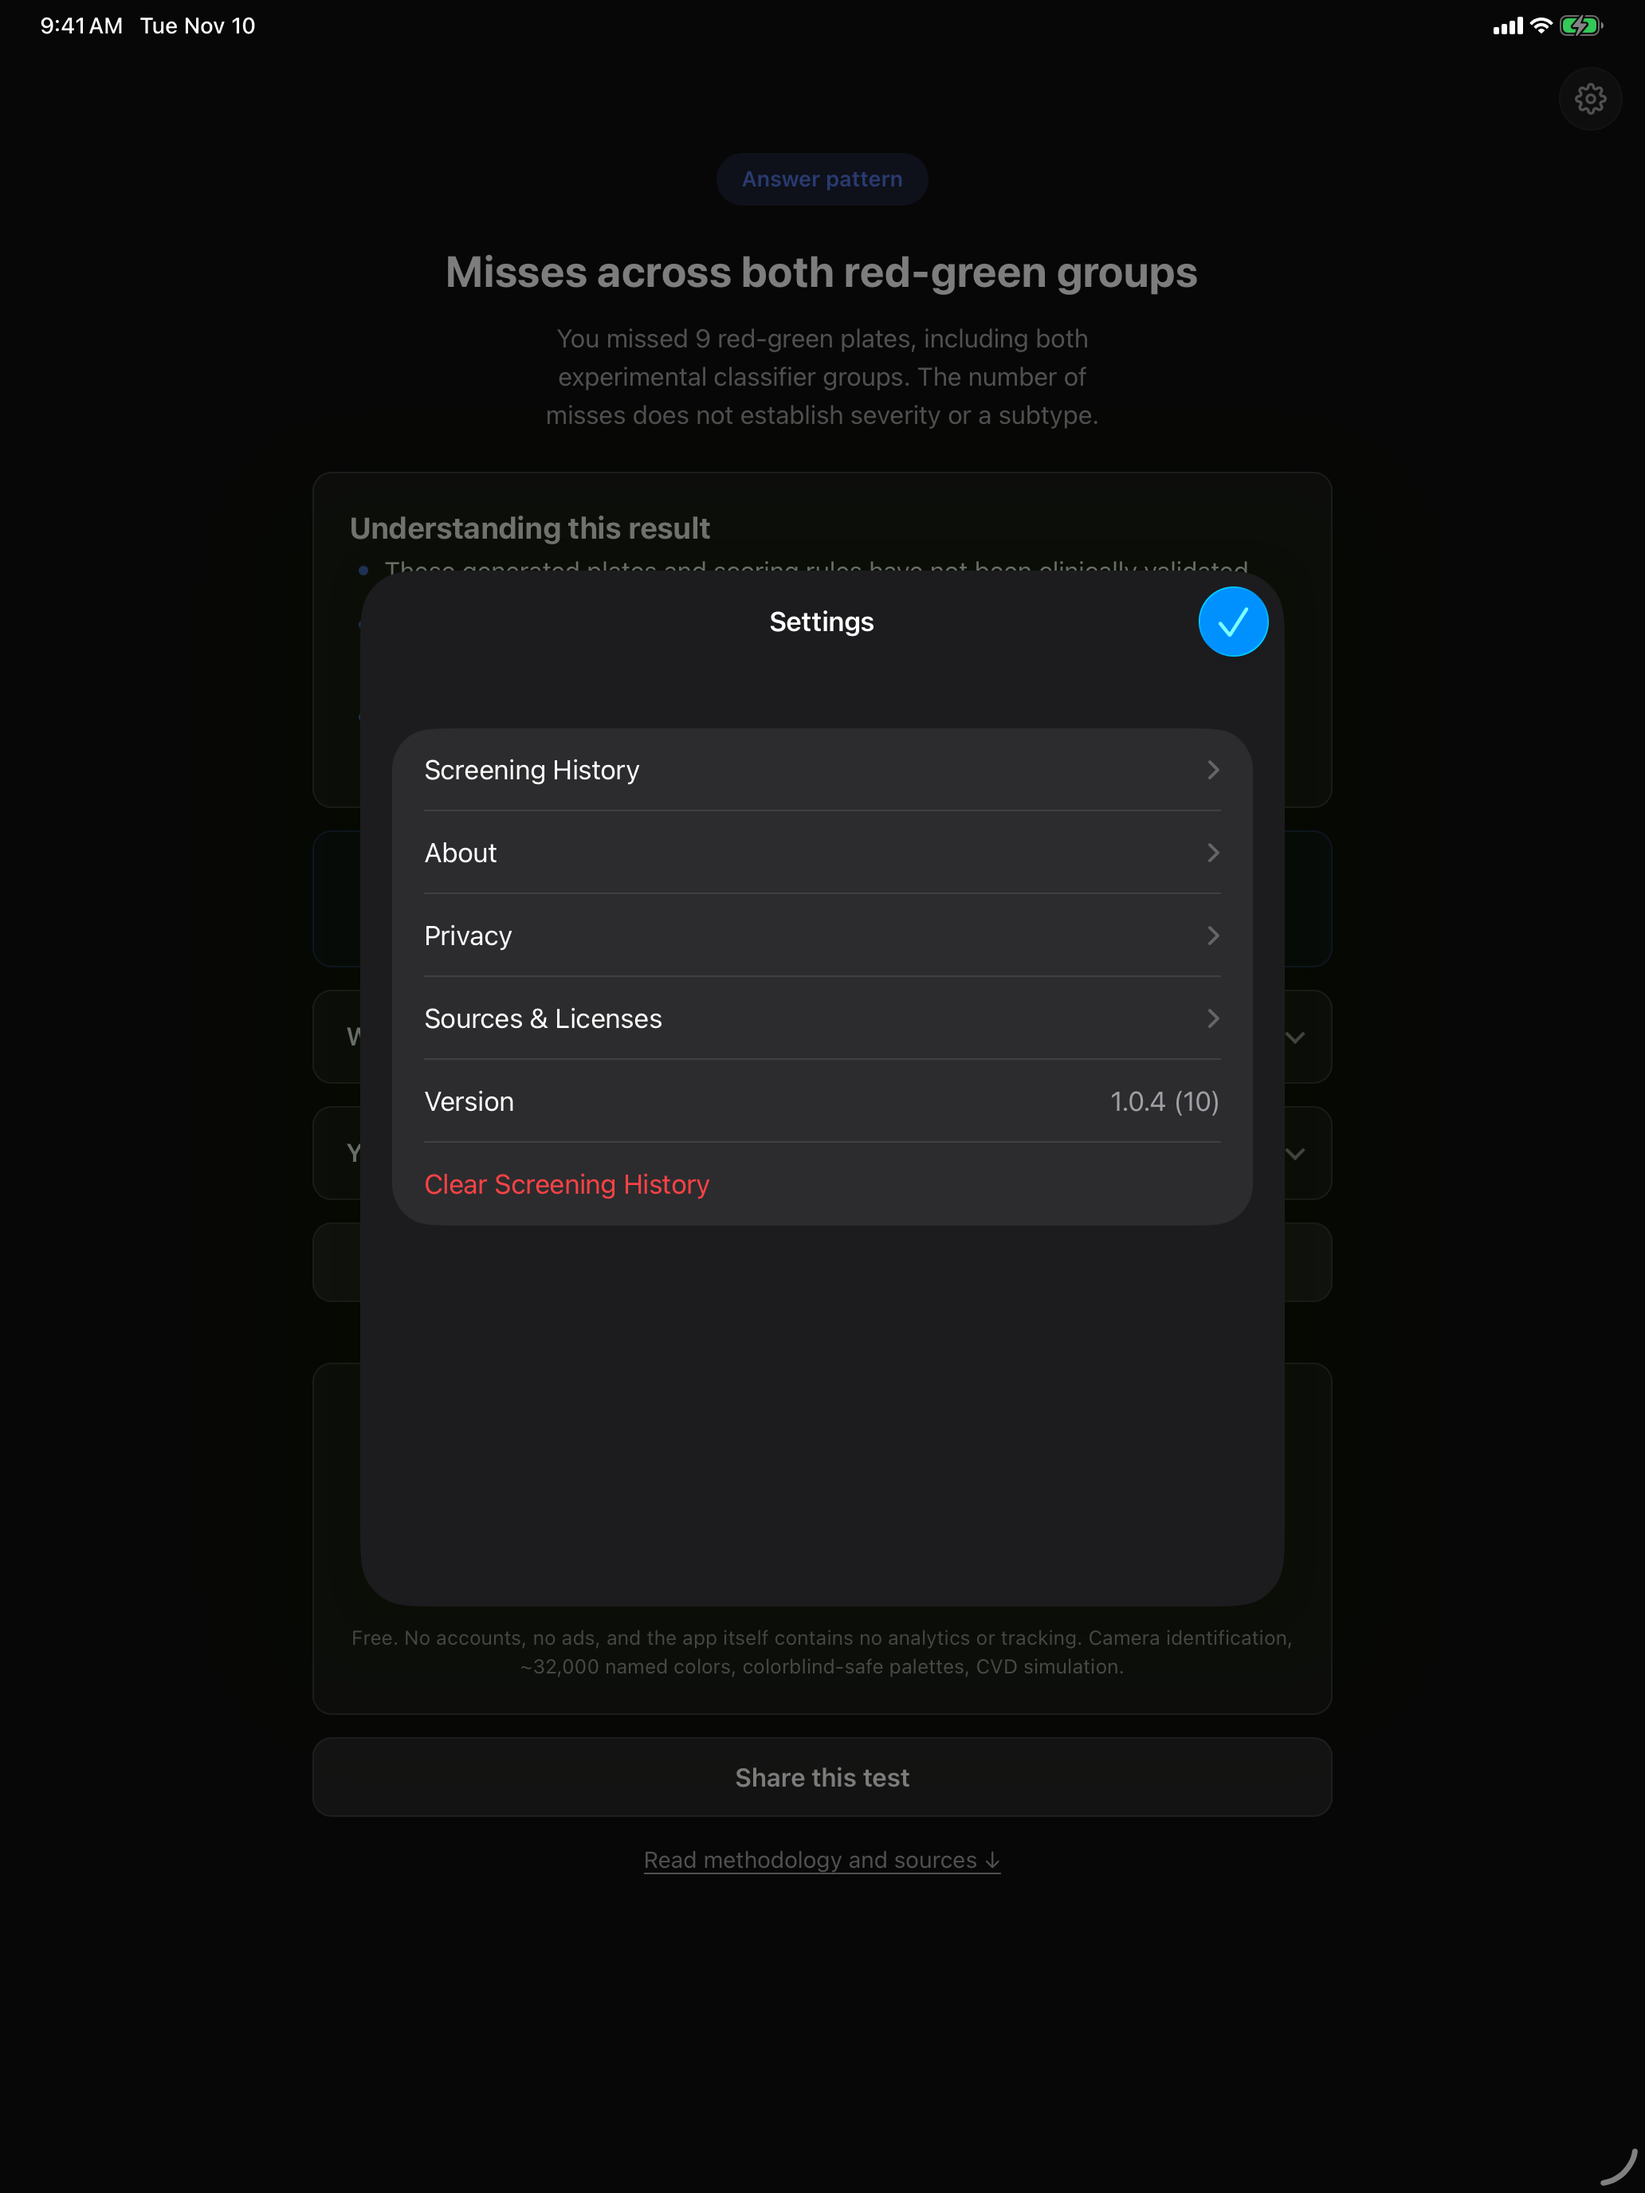
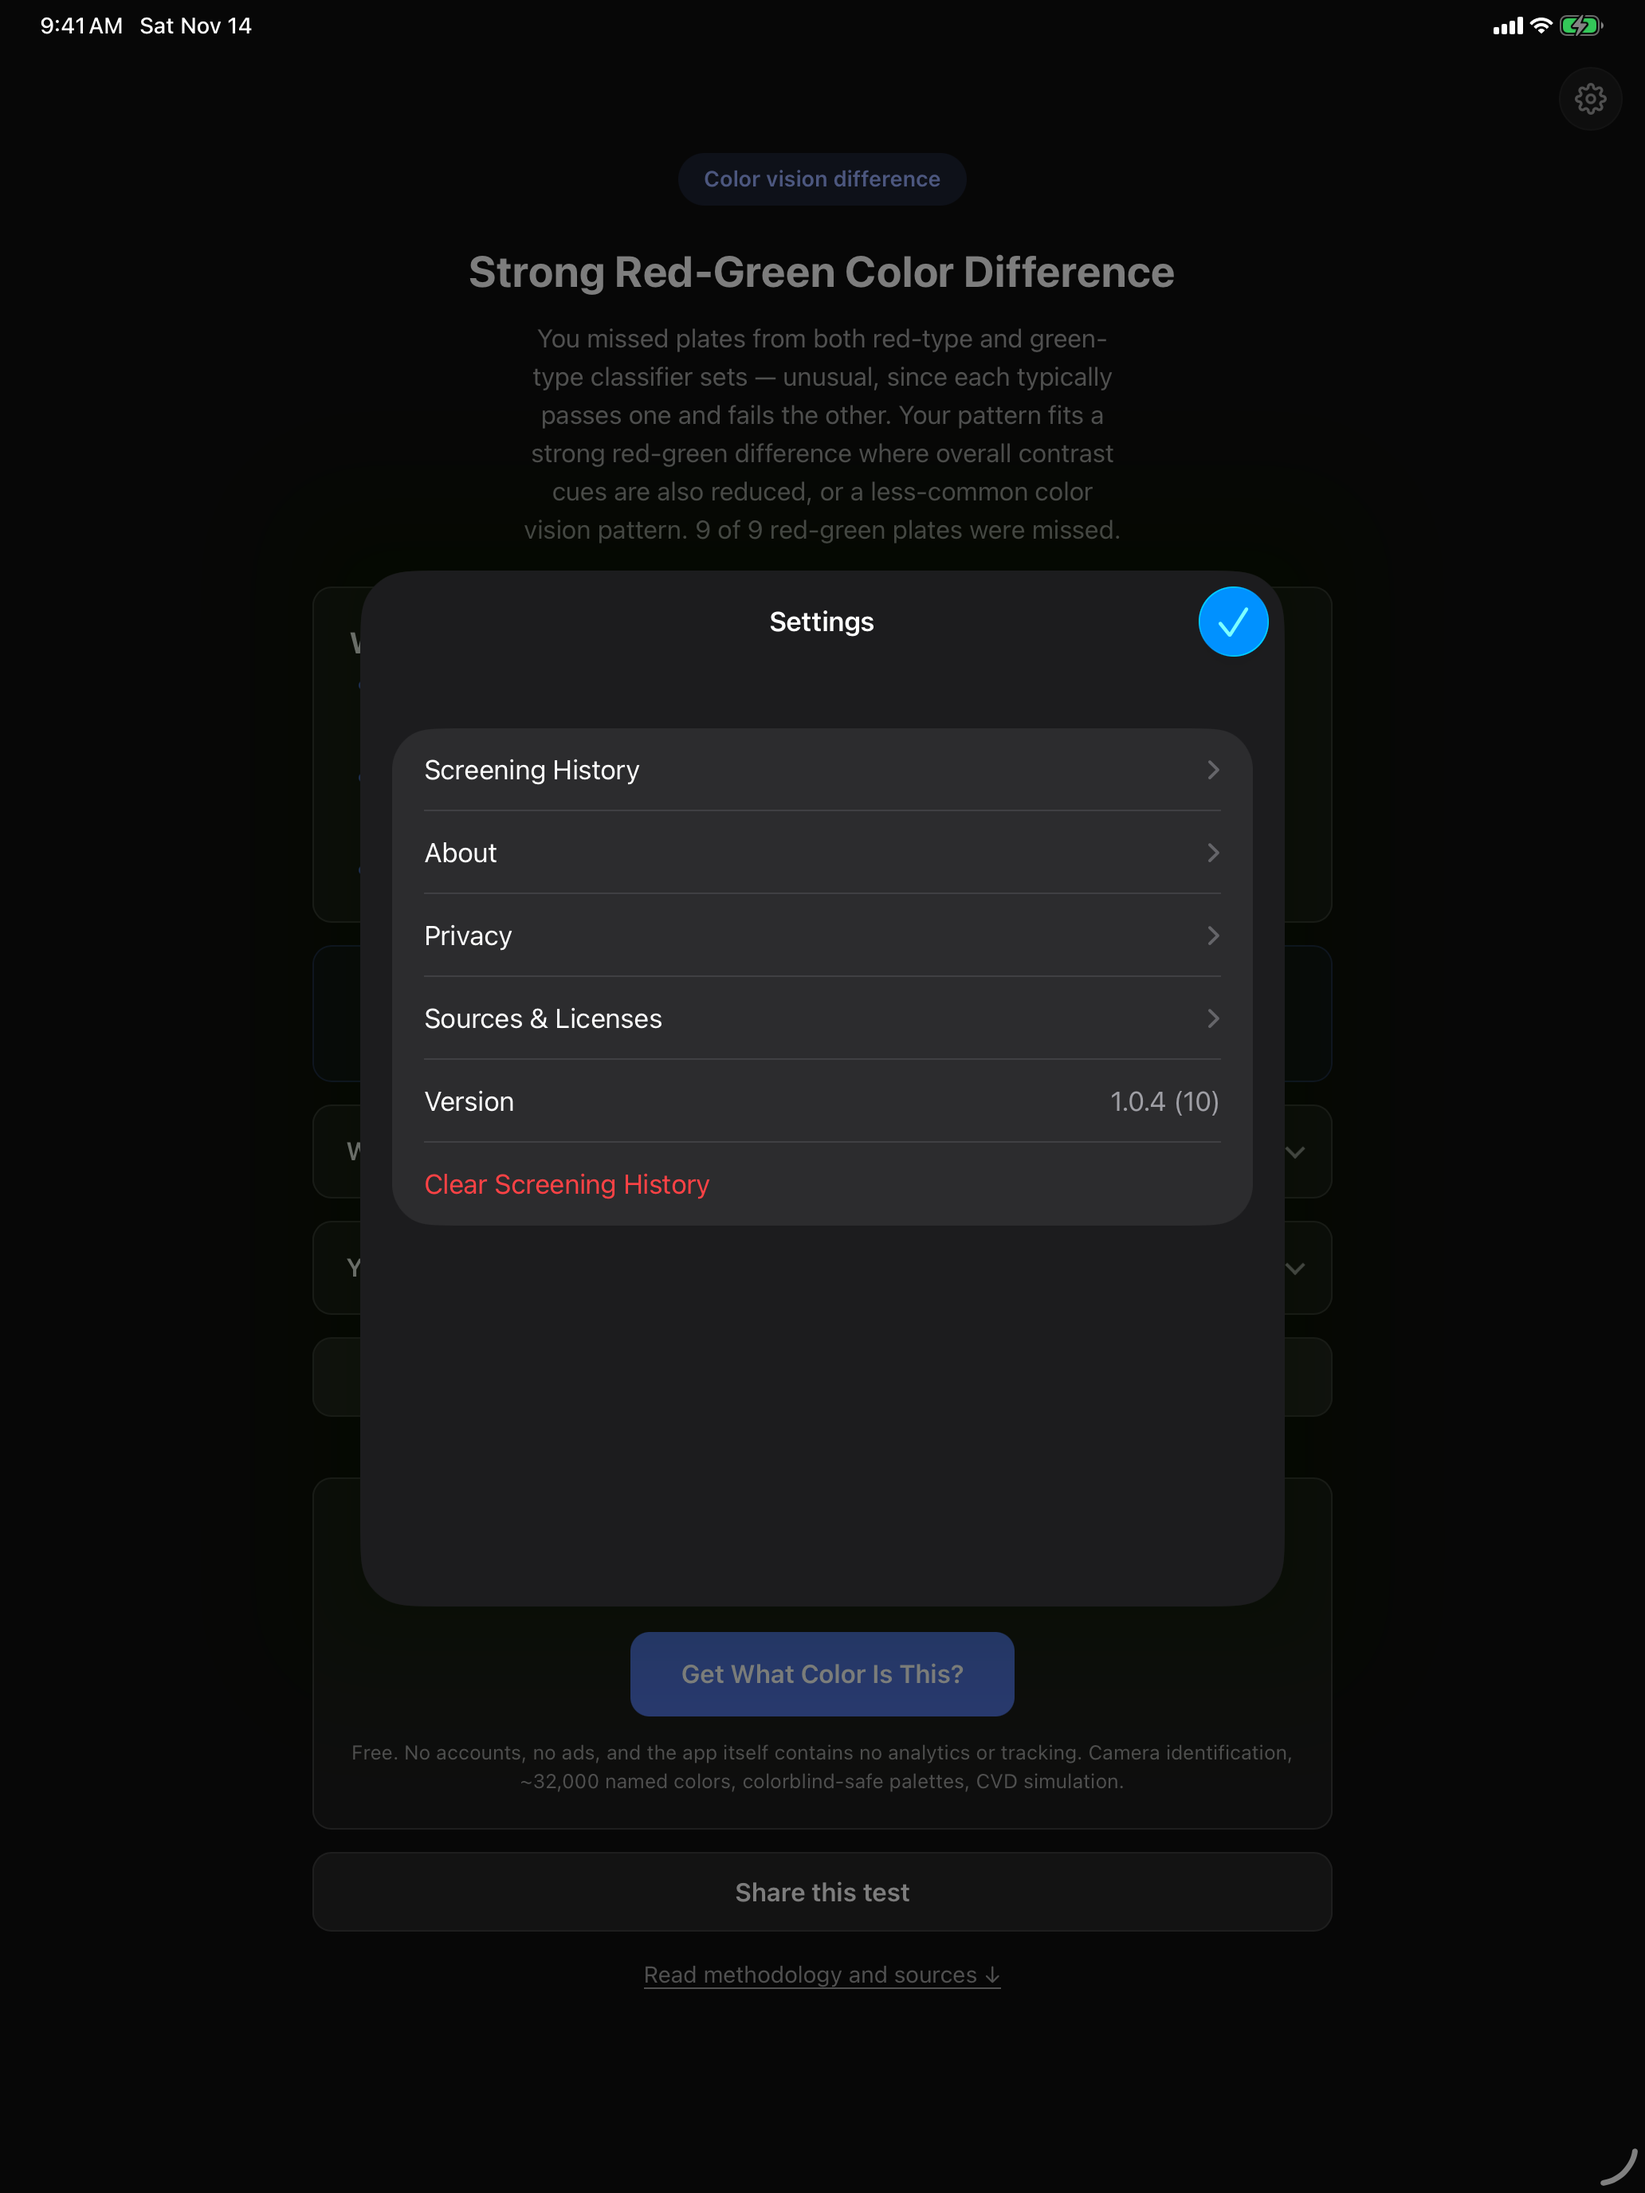
Results wording follow-ups: guidance, listing, Android setting names
- AGENTS.md: visible result labels are the plain names; no answer-pattern
  or plate-group rewording of the results screen.
- Red-type and green-type descriptions drop the 'plates designed to
  vanish' clause; the miss count stays.
- Inconclusive result text names Night Light and eye comfort modes on
  Android instead of Night Shift and True Tone.
- App Store description quotes the current labels; results screenshots
  recaptured for 6.9 inch iPhone and 13 inch iPad.
- Smoke test expects the current blue-yellow labels.

diff --git a/index.html b/index.html
@@ -1565,6 +1565,14 @@
 
         // ── Scoring ──────────────────────────────────────────────────
 
+        // Display-setting names differ by platform; the page header sets
+        // data-os="android" from the user agent.
+        function displayFilterNames() {
+            var android = typeof document !== 'undefined' &&
+                document.documentElement.getAttribute('data-os') === 'android';
+            return android ? 'Night Light, eye comfort modes' : 'Night Shift, True Tone';
+        }
+
         function scoreResults() {
             // Group answers by the plate design, not by an established diagnosis.
             // IDs are retained for native history and companion-app compatibility.
@@ -1635,7 +1643,7 @@
             // is not reliable enough to classify.
             if (calibrationWarning) {
                 return result('inconclusive', 'Inconclusive', 'badge-inconclusive',
-                    'The display calibration check was not passed. The screen may be too dim or a color filter may be active, so this screening cannot classify your color vision reliably. Retake at maximum brightness with Night Shift, True Tone, and blue-light filters turned off.');
+                    'The display calibration check was not passed. The screen may be too dim or a color filter may be active, so this screening cannot classify your color vision reliably. Retake at maximum brightness with ' + displayFilterNames() + ', and blue-light filters turned off.');
             }
 
             // 2. Control fail — display/lighting suspect, cannot trust the test
@@ -1664,14 +1672,14 @@
             if (deutanOnlyFailed === 0 && (protanOnlyFailed >= 2 || (protanOnlyFailed === 1 && rgFailed >= 2))) {
                 var sev = (protanOnlyFailed >= 2 && rgFailed >= 2) ? 'Likely Red-Type Color Difference' : 'Possible Red-Type Color Difference';
                 return result('protan', sev, 'badge-cvd',
-                    'Your pattern matches the red-weakness signature — plates designed to vanish for the red-type pattern (' + protanOnlyFailed + ' of ' + c.protanOnly.total + ' missed) while the green-type plates came through clearly. About 1% of men have this pattern. The clinical name is protanopia or protanomaly.', true);
+                    'Your pattern matches the red-weakness signature — the red-type plates were missed (' + protanOnlyFailed + ' of ' + c.protanOnly.total + ') while the green-type plates came through clearly. About 1% of men have this pattern. The clinical name is protanopia or protanomaly.', true);
             }
 
             // 4. Deutan-type signal — same gating rationale as rule 3.
             if (protanOnlyFailed === 0 && (deutanOnlyFailed >= 2 || (deutanOnlyFailed === 1 && rgFailed >= 2))) {
                 var sevD = (deutanOnlyFailed >= 2 && rgFailed >= 2) ? 'Likely Green-Type Color Difference' : 'Possible Green-Type Color Difference';
                 return result('deutan', sevD, 'badge-cvd',
-                    'Your pattern matches the green-weakness signature — plates designed to vanish for the green-type pattern (' + deutanOnlyFailed + ' of ' + c.deutanOnly.total + ' missed) while the red-type plates came through clearly. About 5% of men have this pattern. The clinical name is deuteranopia or deuteranomaly.', true);
+                    'Your pattern matches the green-weakness signature — the green-type plates were missed (' + deutanOnlyFailed + ' of ' + c.deutanOnly.total + ') while the red-type plates came through clearly. About 5% of men have this pattern. The clinical name is deuteranopia or deuteranomaly.', true);
             }
 
             // 5. Mixed classifier — fails both classifier sets. Needs three
@@ -1769,7 +1777,7 @@
             'mild-combined': ['Mild differences across both red-green and blue-yellow axes — this combination is unusual.',
                           'Worth a clinical evaluation to confirm the pattern, especially if you also notice difficulty in real life.'],
             'inconclusive': ['The display calibration or control plate was not passed, which usually points to viewing conditions rather than vision.',
-                          'Try maximum brightness, no Night Shift, True Tone, or blue-light filters, and a moderately lit room.',
+                          'Try maximum brightness, no ' + displayFilterNames() + ', or blue-light filters, and a moderately lit room.',
                           'If the control still fails on retake, the device or browser may not render the test plates faithfully.'],
         };
 

diff --git a/ios/ColorVisionTestUITests/SmokeTest.swift b/ios/ColorVisionTestUITests/SmokeTest.swift
@@ -118,12 +118,12 @@ final class SmokeTest: XCTestCase {
 
     func testTwoTritanMissesDescribeAnswers() {
         let app = beginProfiledScreening("tritan-mild")
-        XCTAssertTrue(app.webViews.firstMatch.staticTexts["Some blue-yellow plates missed"].waitForExistence(timeout: 10))
+        XCTAssertTrue(app.webViews.firstMatch.staticTexts["Possible Mild Blue-Yellow Color Difference"].waitForExistence(timeout: 10))
     }
 
     func testThreeTritanMissesDescribeAnswers() {
         let app = beginProfiledScreening("tritan-likely")
-        XCTAssertTrue(app.webViews.firstMatch.staticTexts["Several blue-yellow plates missed"].waitForExistence(timeout: 10))
+        XCTAssertTrue(app.webViews.firstMatch.staticTexts["Likely Blue-Yellow Color Difference"].waitForExistence(timeout: 10))
     }
 
     private func launch(profile: String) -> XCUIApplication {

diff --git a/AGENTS.md b/AGENTS.md
@@ -13,7 +13,7 @@ Run `node --test tests/*.test.cjs` and `python -m unittest discover -s tests -p 
 - Keep the single-page architecture: index.html owns rendering, plate definitions, scoring, and the native bridge. Do not add a bundler or framework.
 - color-math.js is shared original code from What Color. This repository's standalone fixtures replace the former private sibling test requirement.
 - Use CIELAB plate specifications. Preserve foreground/background luminance conventions and the control exception. Changes to PLATES require numerical fixtures and a browser verifier check, followed by a complete screening and retake.
-- Preserve scoring order, internal result identifiers, and native history compatibility unless the task explicitly changes them. Visible labels describe answer patterns, not established diagnoses.
+- Preserve scoring order, internal result identifiers, and native history compatibility unless the task explicitly changes them. Visible result labels are plain names such as "Typical Color Vision" or "Likely Red-Type Color Difference". Do not reword the results screen into answer-pattern or plate-group text, and do not write new result copy unasked; the screening limitation on that screen carries the not-a-diagnosis message.
 - api.py serves only explicit public routes. Do not enable a static route covering the repository root.
 
 ## Native contracts

diff --git a/ios/README.md b/ios/README.md
@@ -70,8 +70,9 @@ source art.
 
 `app-store-listing.md`, the fastlane metadata, and the checked-in screenshots
 were reconciled with the app for 1.0.4 (build 10), submitted for review on
-2026-11-10: the description names answer patterns, not types, and the
-screenshots were captured from that source. They are still not proof of
+2026-11-10. Since 2026-11-14 the results screen uses the plain result labels
+again ("Typical Color Vision", "Likely Red-Type Color Difference"); the
+description quotes those and the results screenshots were recaptured. They are still not proof of
 current store status. Before each submission, check the listing against the
 result wording in `index.html` and recapture screenshots if screens changed.
 Source preparation alone does not update a store.

diff --git a/ios/app-store-listing.md b/ios/app-store-listing.md
@@ -93,7 +93,7 @@ HOW IT WORKS
 
 WHAT YOU GET
 
-• A plain result that describes your answers, such as "Several red-green plates missed" or "Most or all plates matched"
+• A plain result, such as "Typical Color Vision" or "Likely Red-Type Color Difference"
 • What can affect your answers: display, brightness, color filters, lighting
 • A plate-by-plate review of every answer
 • Screening history saved on your device, so you can retest over time and compare
